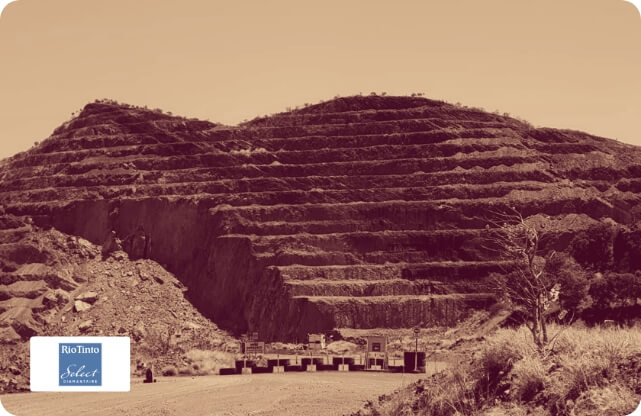
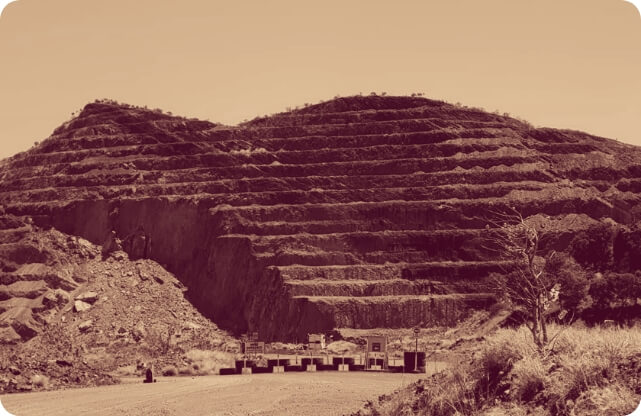
time line image changes done

Changed region(s): [[0.0312, 0.7812, 0.2184, 0.9688]]

diff --git a/src/sass/pages/_extra.scss b/src/sass/pages/_extra.scss
@@ -440,9 +440,16 @@ body {
       .slider {
         position: relative;
         .slider_image {
+          position: relative;
           // padding: 0px 20px 20px 30px;
           @include mv-media(max, 767px) {
             padding: 0px;
+          }
+          .logo_overlay{
+            position: absolute;
+            left: 20px;
+            bottom: 20px;
+            border-radius: 0px;
           }
           .contentOverlay {
             @extend .rel_xy_center;

diff --git a/home.php b/home.php
@@ -184,10 +184,12 @@
 
                 <div class="slider_image">
                   <img src="img/home/year_1990.jpg" alt="" />
+                  <img class="logo_overlay" src="img/home/timeline_harshid.png" alt="" />
                 </div>
 
                 <div class="slider_image">
                   <img src="img/home/year_2000.jpg" alt="" />
+                  <img class="logo_overlay" src="img/home/timeline_rio.png" alt="" />
                 </div>
 
                 <div class="slider_image">
@@ -196,6 +198,7 @@
 
                 <div class="slider_image">
                   <img src="img/home/year_2010.jpg" alt="" />
+                  <img class="logo_overlay" src="img/home/timeline_mireya.png" alt="" />
                   <!-- <img class="line_layer" src="img/home/line_layer.png" alt="line_layer" /> -->
                   <!-- <img class="slider_layer_two" src="img/home/review_layer_two.png" alt="" /> -->
                 </div>
